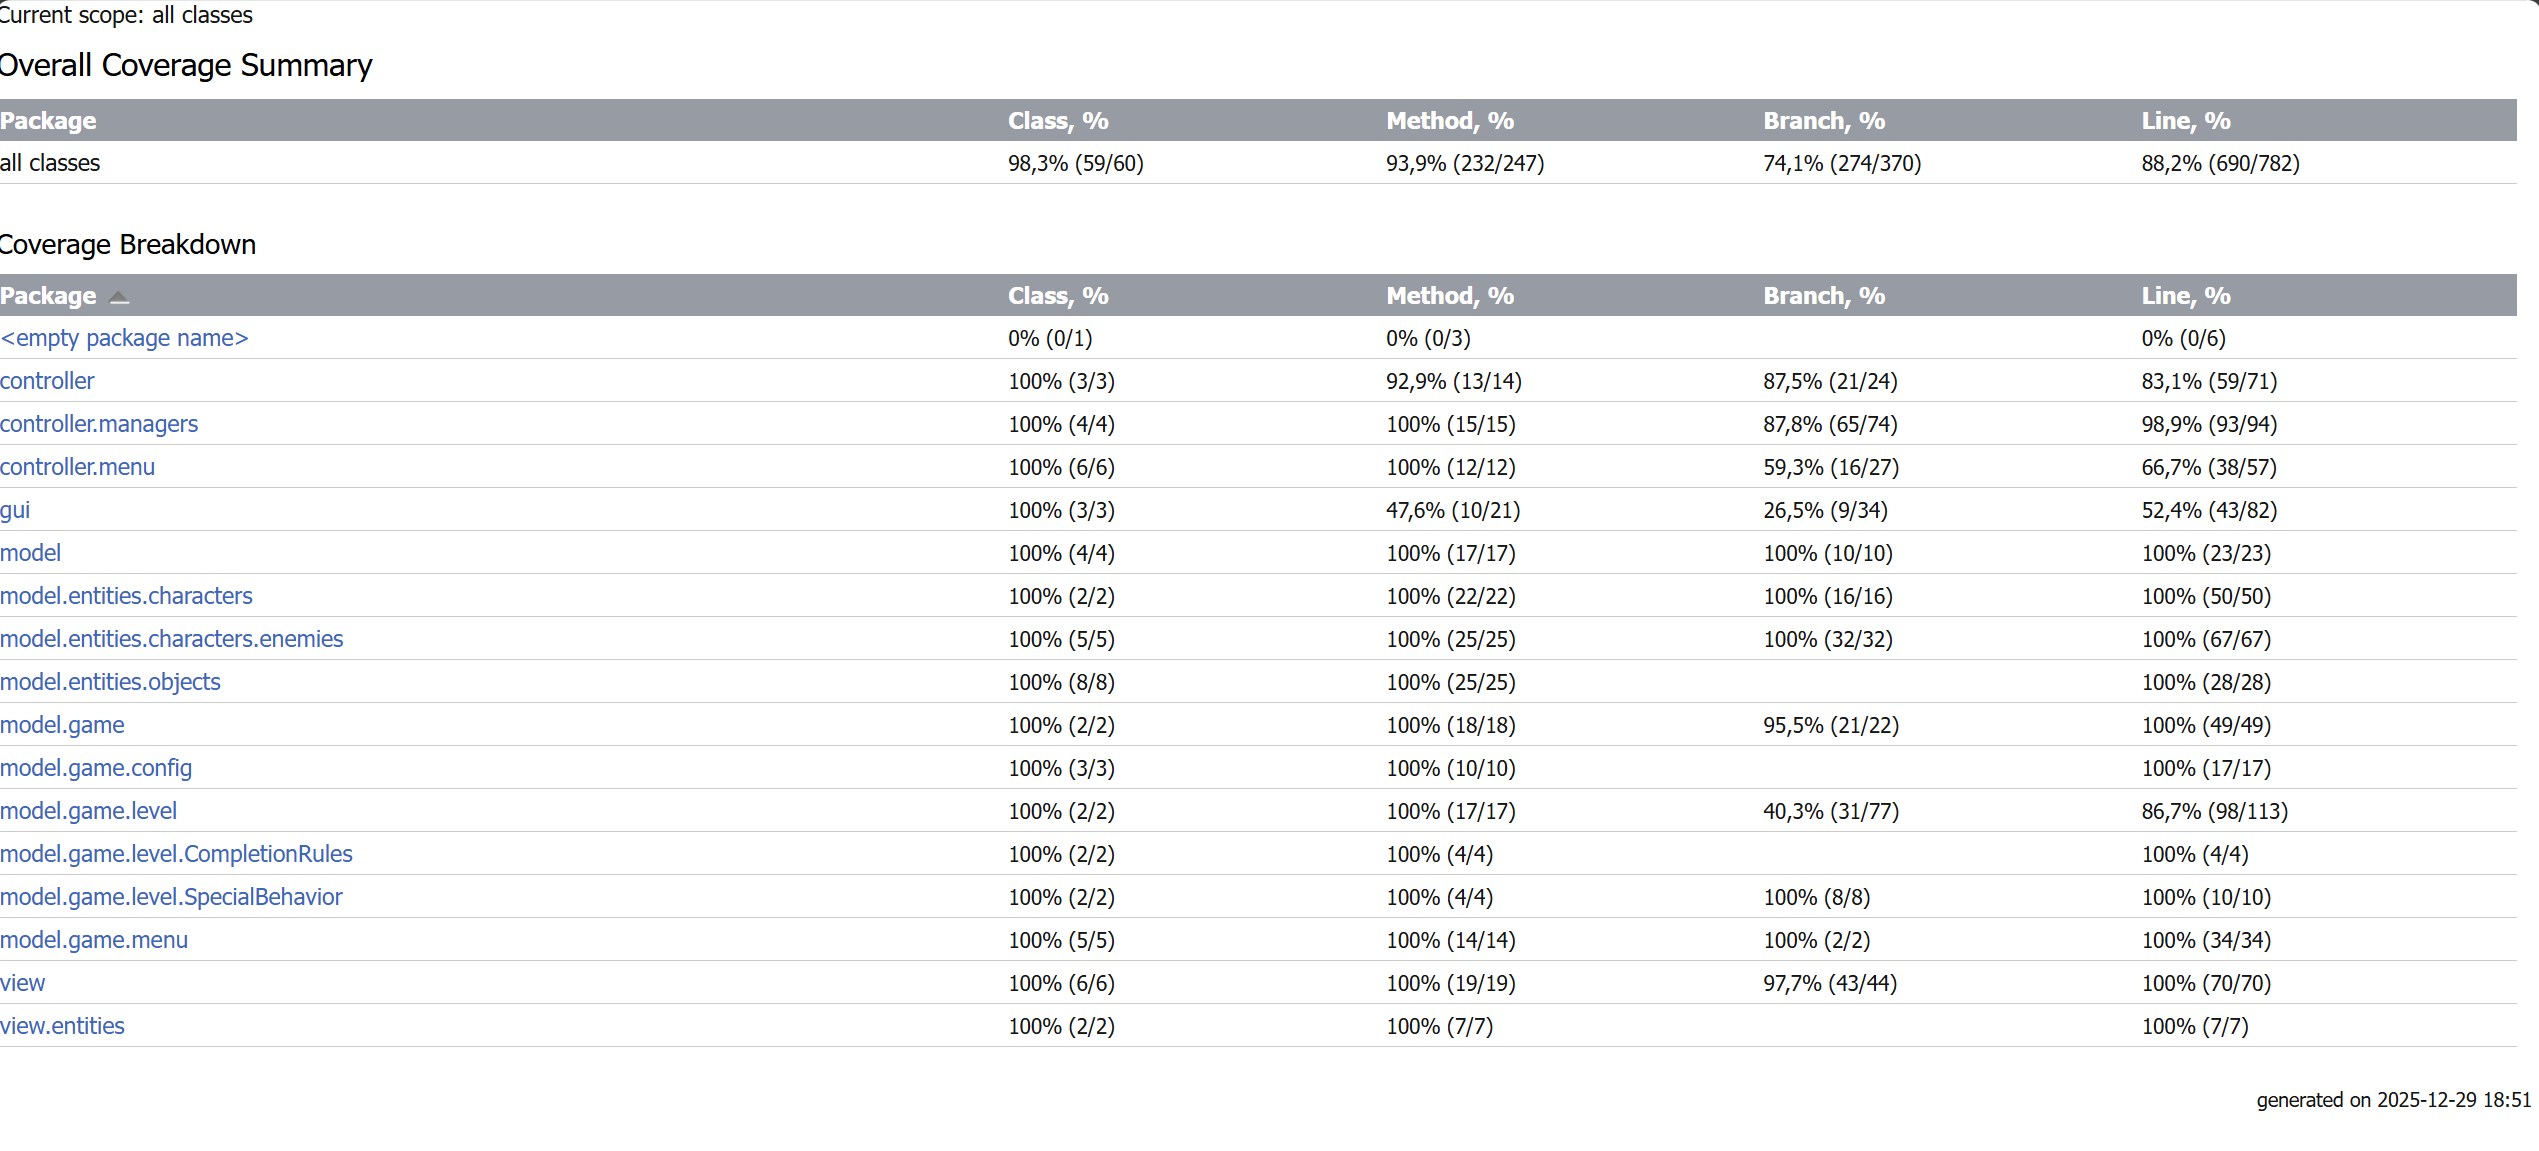
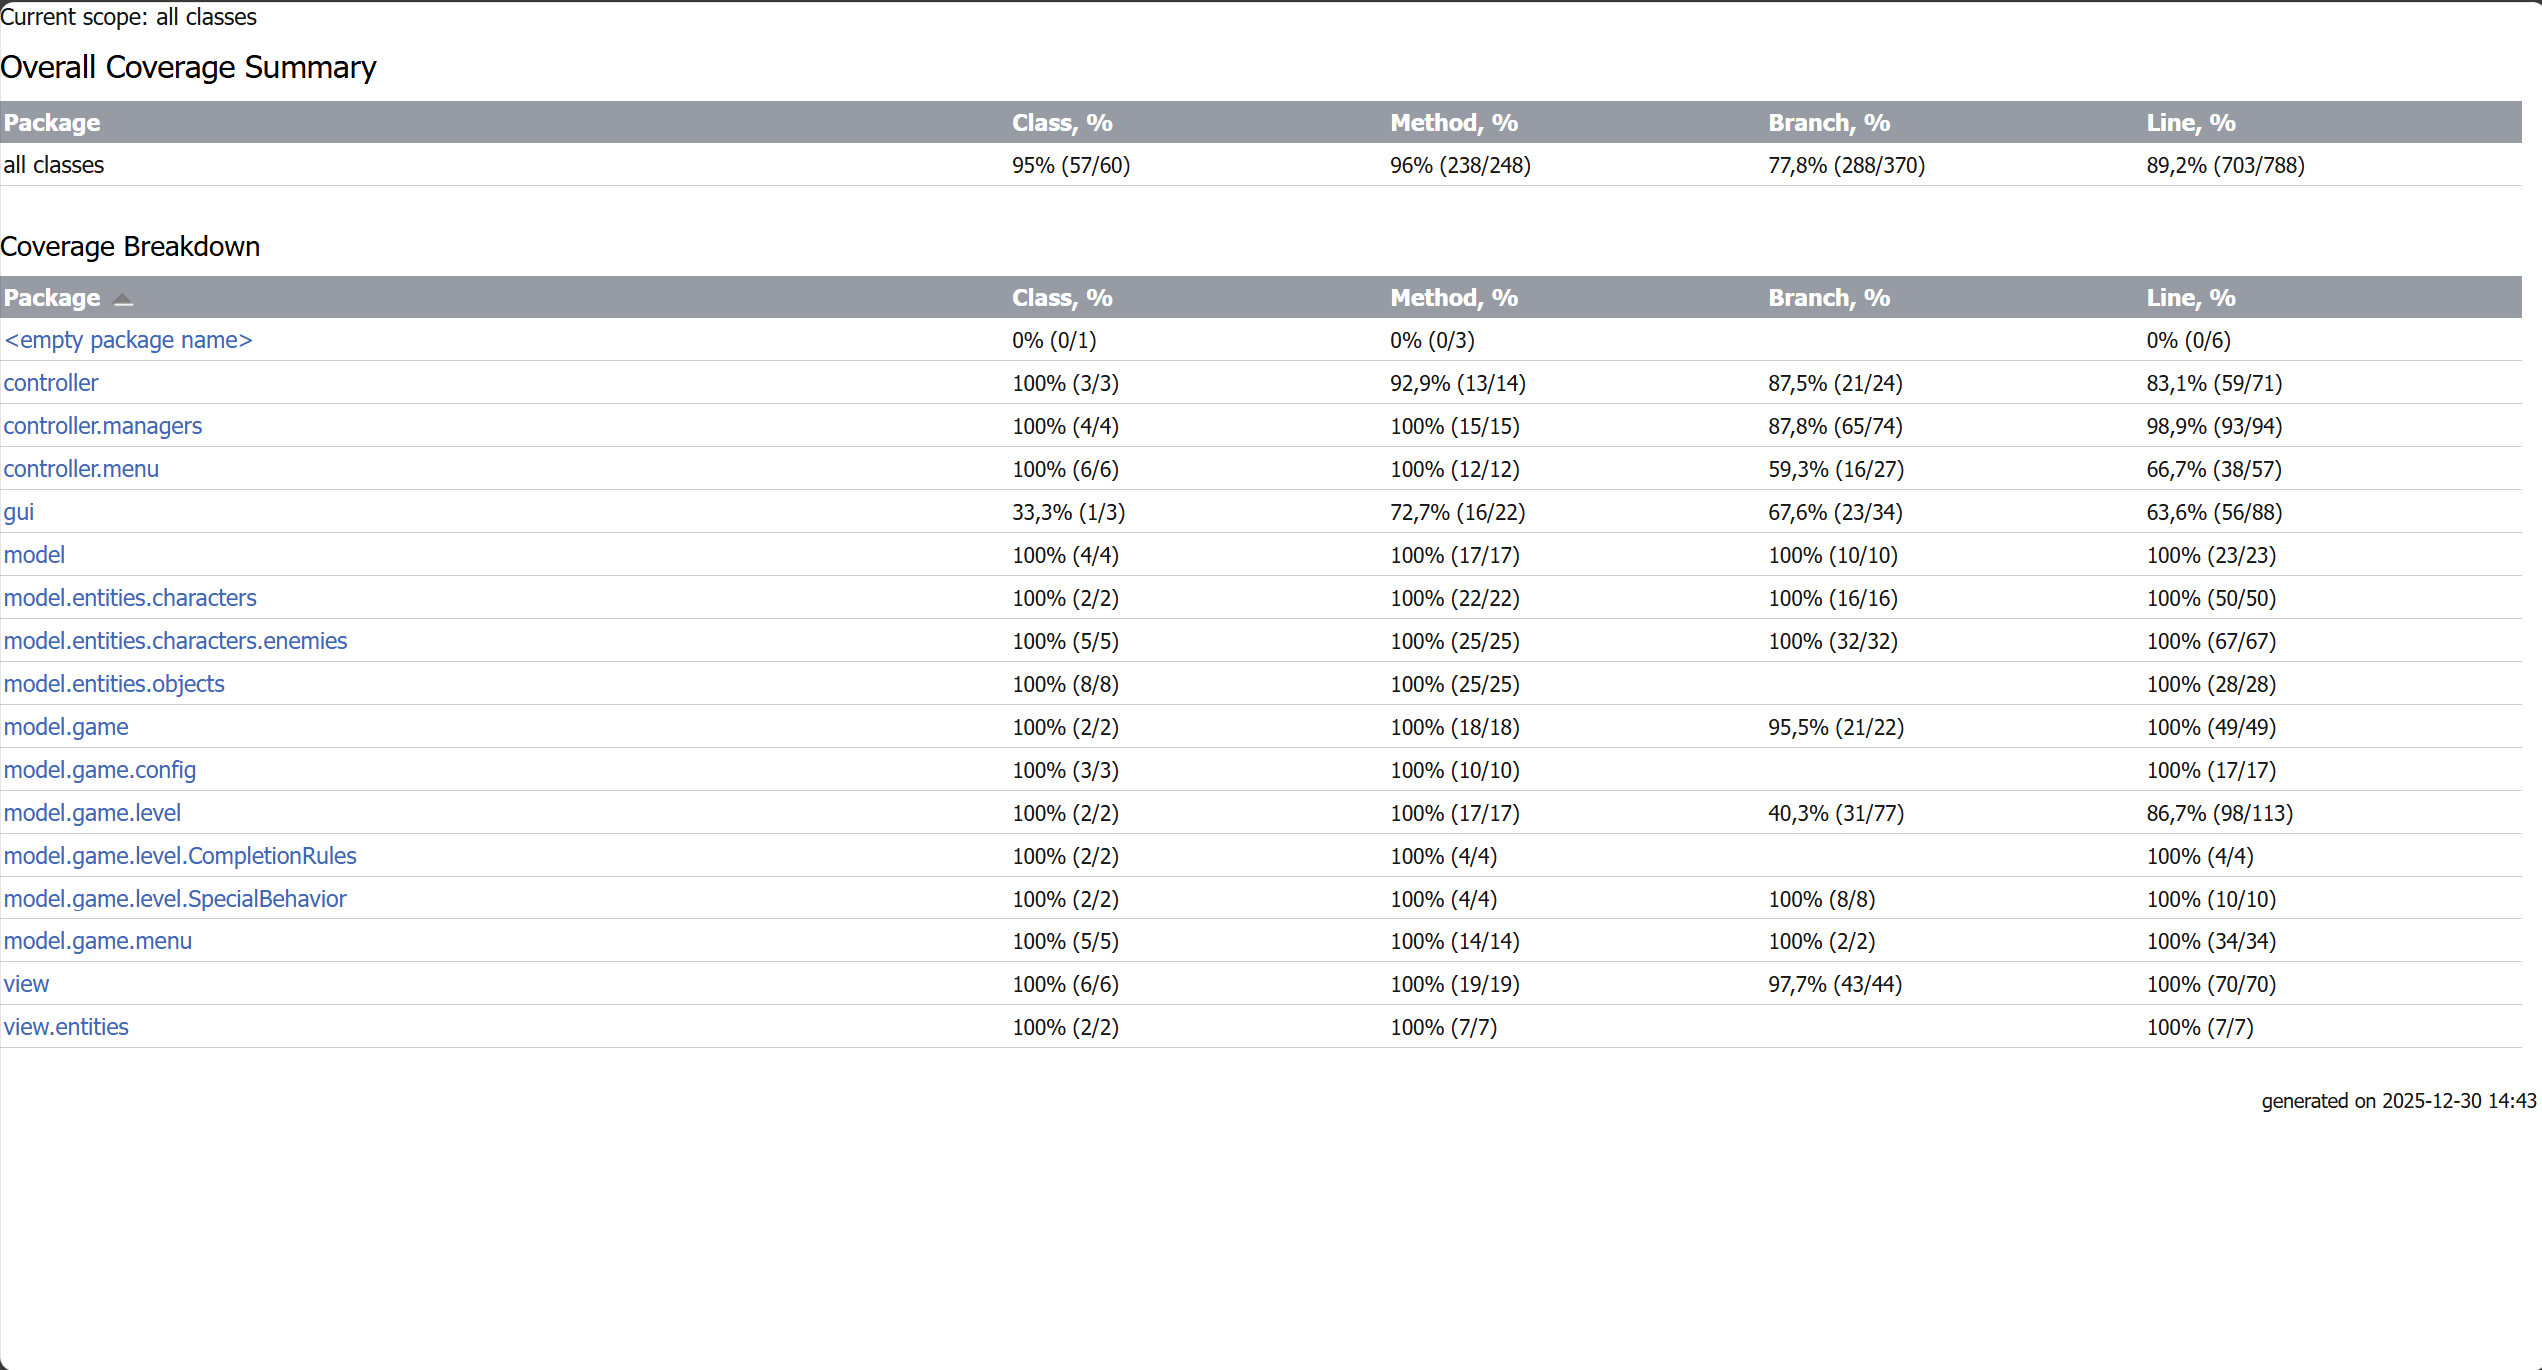
Update test reports

Changed region(s): [[0.0, 0.0, 1.0, 0.9123], [0.6845, 0.7602, 0.7468, 0.8818], [0.9023, 0.9427, 0.9957, 0.9731]]

diff --git a/docs/README.md b/docs/README.md
@@ -192,7 +192,7 @@ Since the last updates made all the previous found code smells have been fixed.
   <b><i>Fig 6. Coverage Report</i></b>
 </p>
 
-- [Mutation Testing](../docs/202512291853/index.html)
+- [Mutation Testing](../docs/202512301444/index.html)
 
 ### SELF-EVALUATION
 
